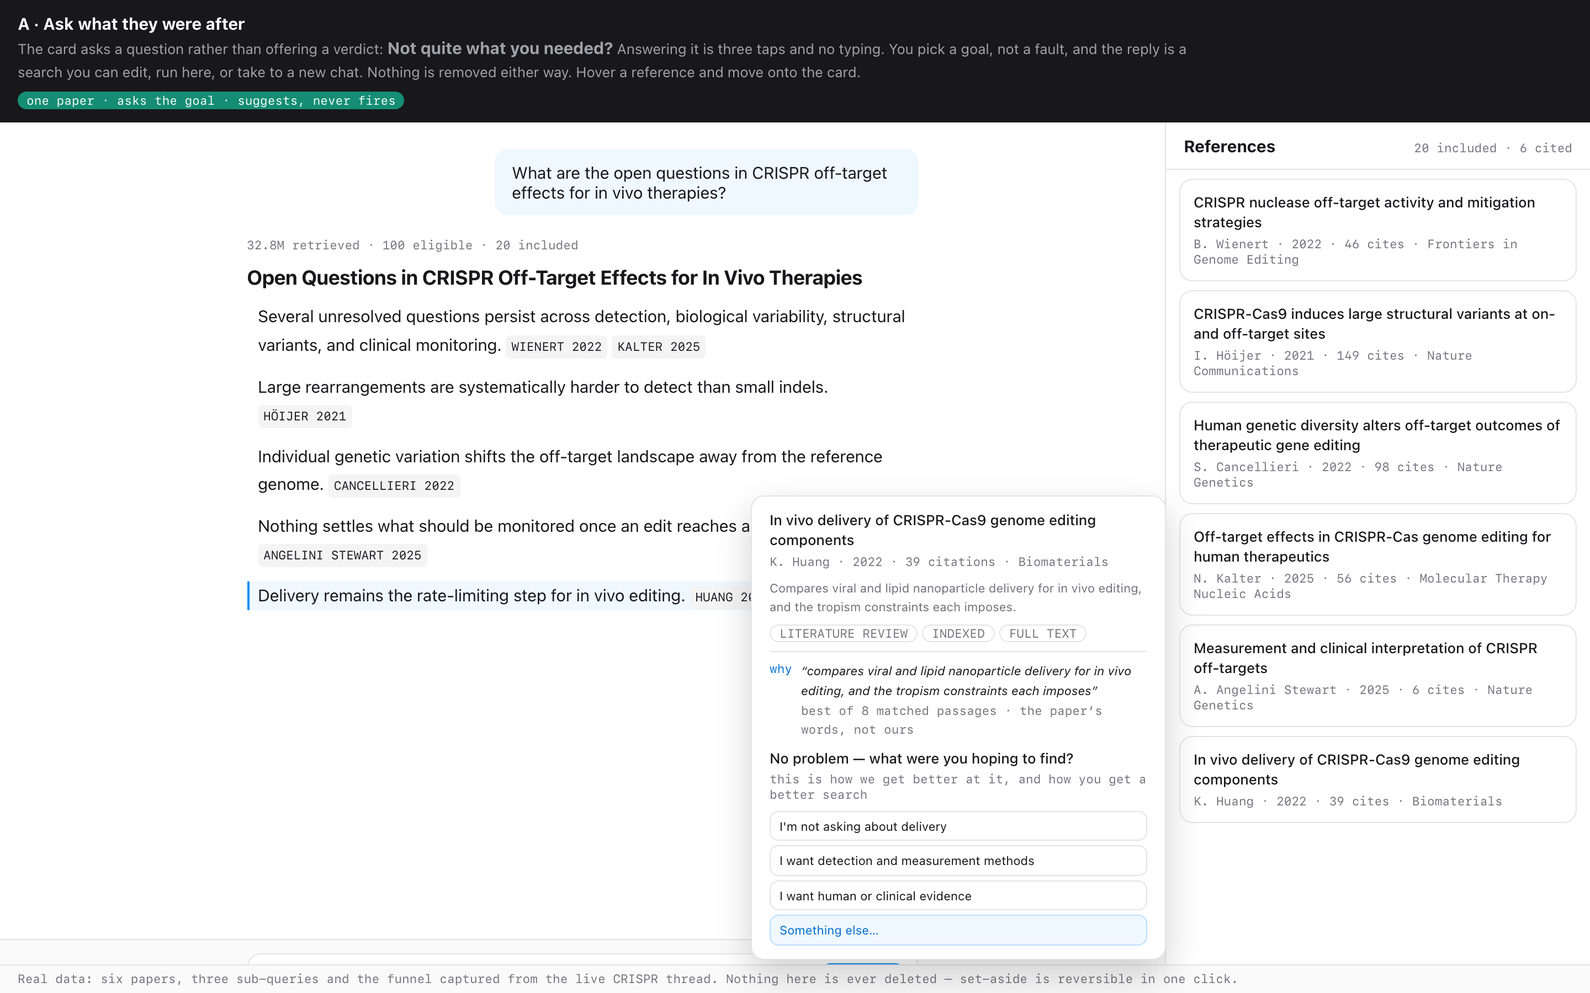
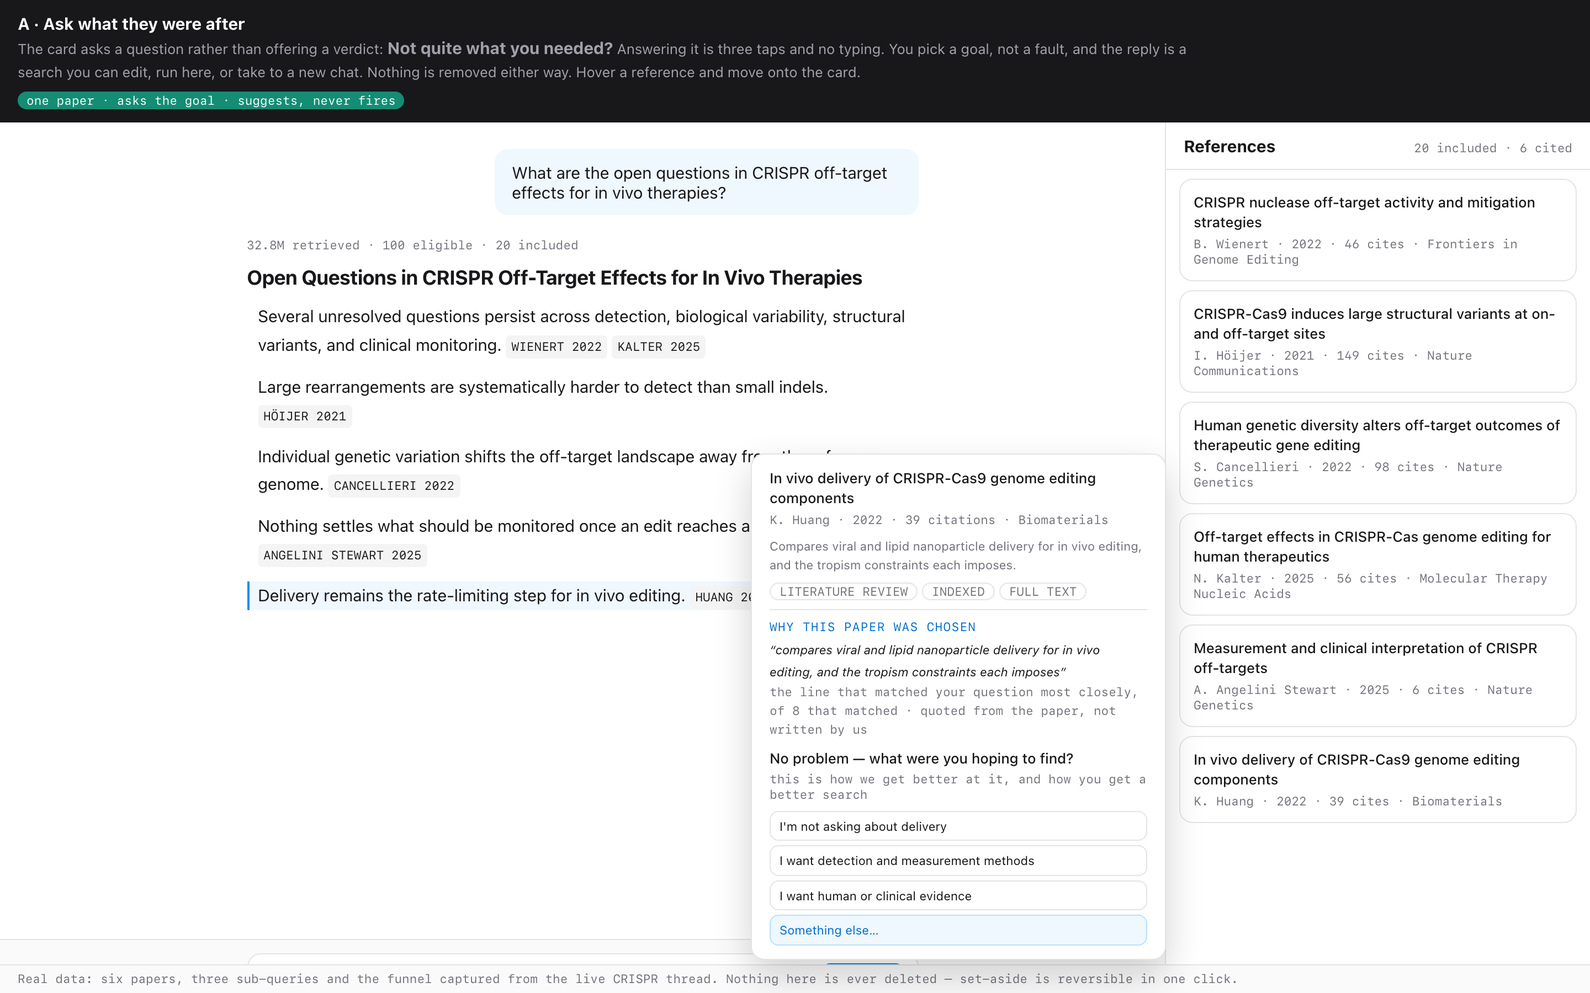
Round 20b · A chosen; "why" widened into a label that says what it is
"why" was too terse to carry the job — it did not say whose reason it was, or
that it was a reason at all. The hover card now leads the block with

  WHY THIS PAPER WAS CHOSEN
  "compares viral and lipid nanoparticle delivery for in vivo editing, and
   the tropism constraints each imposes"
  the line that matched your question most closely, of 8 that matched ·
  quoted from the paper, not written by us

The label takes its own line because it no longer fits beside the quote, and
the footnote now does two jobs it was not doing: it says what the quote *is*
(the closest-matching line, not a summary) and where it came from (the paper,
not us). Applied across all nine hover prototypes so the wording stays one
thing rather than drifting per file.

Direction A is marked as the decision on prototypes/redirect/index.html.

Claude-Session: https://claude.ai/code/session_01BjNnDxufGn9kQRDigfP8B5

Changed region(s): [[0.4688, 0.4356, 0.7188, 0.7467]]

diff --git a/prototypes/why/option-3-on-demand.html b/prototypes/why/option-3-on-demand.html
@@ -65,10 +65,13 @@ h1{font-size:var(--t-lg);letter-spacing:-.01em;margin-bottom:var(--s-sm)}
   padding:0 var(--s-xs);color:var(--muted)}
 
 /* ── the addition ─────────────────────────────────────────────── */
-.why{margin-top:var(--s-xs);border-top:1px solid var(--bd);padding-top:var(--s-xs);
-  display:flex;gap:var(--s-xs);align-items:baseline}
-.why .k{font-family:var(--mono);font-size:var(--t-2xs);color:var(--accent-emph);white-space:nowrap}
-.why .v{flex:1;font-size:var(--t-2xs);line-height:1.55}
+/* the label carries the job now: "why" alone did not say whose reason it was,
+   or that it is a reason at all. It gets its own line because it no longer fits
+   beside the quote. */
+.why{margin-top:var(--s-xs);border-top:1px solid var(--bd);padding-top:var(--s-xs)}
+.why .k{display:block;font-family:var(--mono);font-size:var(--t-2xs);color:var(--accent-emph);
+  letter-spacing:.06em;text-transform:uppercase;margin-bottom:3px}
+.why .v{font-size:var(--t-2xs);line-height:1.55}
 .why .v em{font-style:normal;color:var(--accent-emph)}
 .why .v q{font-style:italic}
 .why .tag{font-family:var(--mono);font-size:var(--t-2xs);color:var(--muted);display:block;margin-top:2px}
@@ -139,11 +142,11 @@ function lit(i){
 const cache={};
 function show(i,row){
   if(cache[i]){
-    card.innerHTML=base(i)+'<div class="why"><span class="k">why</span><span class="v">'+
+    card.innerHTML=base(i)+'<div class="why"><span class="k">Why this paper was chosen</span><span class="v">'+
       esc(cache[i])+'<span class="tag">from cache · asked once</span></span></div>';
     place(row); lit(i); return;
   }
-  card.innerHTML=base(i)+'<div class="why"><span class="k">why</span><span class="v">'+
+  card.innerHTML=base(i)+'<div class="why"><span class="k">Why this paper was chosen</span><span class="v">'+
     '<div class="shim"></div><div class="shim b"></div>'+
     '<span class="tag">asking about this paper…</span></span></div>';
   place(row); lit(i);
@@ -151,7 +154,7 @@ function show(i,row){
   show._t=setTimeout(()=>{
     if(!card.classList.contains('on')) return;
     cache[i]=P[i].why3;
-    card.innerHTML=base(i)+'<div class="why"><span class="k">why</span><span class="v">'+
+    card.innerHTML=base(i)+'<div class="why"><span class="k">Why this paper was chosen</span><span class="v">'+
       esc(P[i].why3)+'<span class="tag">written just now, for your question</span></span></div>';
     place(row);
   },620);

diff --git a/prototypes/redirect/redirect-1-ask-the-goal.html b/prototypes/redirect/redirect-1-ask-the-goal.html
@@ -95,9 +95,13 @@ h1{font-size:var(--t-lg);letter-spacing:-.01em;margin-bottom:var(--s-sm)}
 .card .chips{display:flex;gap:var(--s-2xs);margin-top:var(--s-xs);flex-wrap:wrap}
 .card .ch{font-family:var(--mono);font-size:var(--t-2xs);border:1px solid var(--bd);border-radius:625rem;
   padding:0 var(--s-xs);color:var(--muted)}
-.why{margin-top:var(--s-xs);border-top:1px solid var(--bd);padding-top:var(--s-xs);display:flex;gap:var(--s-xs)}
-.why .k{font-family:var(--mono);font-size:var(--t-2xs);color:var(--accent-emph);white-space:nowrap}
-.why .v{flex:1;font-size:var(--t-2xs);line-height:1.55}
+/* the label carries the job now: "why" alone did not say whose reason it was,
+   or that it is a reason at all. It gets its own line because it no longer fits
+   beside the quote. */
+.why{margin-top:var(--s-xs);border-top:1px solid var(--bd);padding-top:var(--s-xs)}
+.why .k{display:block;font-family:var(--mono);font-size:var(--t-2xs);color:var(--accent-emph);
+  letter-spacing:.06em;text-transform:uppercase;margin-bottom:3px}
+.why .v{font-size:var(--t-2xs);line-height:1.55}
 .why .v q{font-style:italic}
 .why .tag{font-family:var(--mono);font-size:var(--t-2xs);color:var(--muted);display:block;margin-top:2px}
 
@@ -200,8 +204,10 @@ function base(i){
     '<div class="ab">'+esc(p.ab)+'</div>'+
     '<div class="chips"><span class="ch">'+esc(p.type)+'</span><span class="ch">INDEXED</span>'+
     '<span class="ch">FULL TEXT</span></div>'+
-    '<div class="why"><span class="k">why</span><span class="v"><q>'+esc(p.passage)+'</q>'+
-    '<span class="tag">best of '+p.q+' matched passages · the paper’s words, not ours</span></span></div>';
+    '<div class="why"><span class="k">Why this paper was chosen</span><span class="v"><q>'+
+    esc(p.passage)+'</q>'+
+    '<span class="tag">the line that matched your question most closely, of '+p.q+
+    ' that matched · quoted from the paper, not written by us</span></span></div>';
 }
 function place(row){
   const r=row.getBoundingClientRect(), h=card.offsetHeight, w=card.offsetWidth;

diff --git a/prototypes/redirect/redirect-2-set-aside.html b/prototypes/redirect/redirect-2-set-aside.html
@@ -95,9 +95,13 @@ h1{font-size:var(--t-lg);letter-spacing:-.01em;margin-bottom:var(--s-sm)}
 .card .chips{display:flex;gap:var(--s-2xs);margin-top:var(--s-xs);flex-wrap:wrap}
 .card .ch{font-family:var(--mono);font-size:var(--t-2xs);border:1px solid var(--bd);border-radius:625rem;
   padding:0 var(--s-xs);color:var(--muted)}
-.why{margin-top:var(--s-xs);border-top:1px solid var(--bd);padding-top:var(--s-xs);display:flex;gap:var(--s-xs)}
-.why .k{font-family:var(--mono);font-size:var(--t-2xs);color:var(--accent-emph);white-space:nowrap}
-.why .v{flex:1;font-size:var(--t-2xs);line-height:1.55}
+/* the label carries the job now: "why" alone did not say whose reason it was,
+   or that it is a reason at all. It gets its own line because it no longer fits
+   beside the quote. */
+.why{margin-top:var(--s-xs);border-top:1px solid var(--bd);padding-top:var(--s-xs)}
+.why .k{display:block;font-family:var(--mono);font-size:var(--t-2xs);color:var(--accent-emph);
+  letter-spacing:.06em;text-transform:uppercase;margin-bottom:3px}
+.why .v{font-size:var(--t-2xs);line-height:1.55}
 .why .v q{font-style:italic}
 .why .tag{font-family:var(--mono);font-size:var(--t-2xs);color:var(--muted);display:block;margin-top:2px}
 
@@ -200,8 +204,10 @@ function base(i){
     '<div class="ab">'+esc(p.ab)+'</div>'+
     '<div class="chips"><span class="ch">'+esc(p.type)+'</span><span class="ch">INDEXED</span>'+
     '<span class="ch">FULL TEXT</span></div>'+
-    '<div class="why"><span class="k">why</span><span class="v"><q>'+esc(p.passage)+'</q>'+
-    '<span class="tag">best of '+p.q+' matched passages · the paper’s words, not ours</span></span></div>';
+    '<div class="why"><span class="k">Why this paper was chosen</span><span class="v"><q>'+
+    esc(p.passage)+'</q>'+
+    '<span class="tag">the line that matched your question most closely, of '+p.q+
+    ' that matched · quoted from the paper, not written by us</span></span></div>';
 }
 function place(row){
   const r=row.getBoundingClientRect(), h=card.offsetHeight, w=card.offsetWidth;

diff --git a/prototypes/redirect/redirect-3-on-the-way-out.html b/prototypes/redirect/redirect-3-on-the-way-out.html
@@ -95,9 +95,13 @@ h1{font-size:var(--t-lg);letter-spacing:-.01em;margin-bottom:var(--s-sm)}
 .card .chips{display:flex;gap:var(--s-2xs);margin-top:var(--s-xs);flex-wrap:wrap}
 .card .ch{font-family:var(--mono);font-size:var(--t-2xs);border:1px solid var(--bd);border-radius:625rem;
   padding:0 var(--s-xs);color:var(--muted)}
-.why{margin-top:var(--s-xs);border-top:1px solid var(--bd);padding-top:var(--s-xs);display:flex;gap:var(--s-xs)}
-.why .k{font-family:var(--mono);font-size:var(--t-2xs);color:var(--accent-emph);white-space:nowrap}
-.why .v{flex:1;font-size:var(--t-2xs);line-height:1.55}
+/* the label carries the job now: "why" alone did not say whose reason it was,
+   or that it is a reason at all. It gets its own line because it no longer fits
+   beside the quote. */
+.why{margin-top:var(--s-xs);border-top:1px solid var(--bd);padding-top:var(--s-xs)}
+.why .k{display:block;font-family:var(--mono);font-size:var(--t-2xs);color:var(--accent-emph);
+  letter-spacing:.06em;text-transform:uppercase;margin-bottom:3px}
+.why .v{font-size:var(--t-2xs);line-height:1.55}
 .why .v q{font-style:italic}
 .why .tag{font-family:var(--mono);font-size:var(--t-2xs);color:var(--muted);display:block;margin-top:2px}
 
@@ -200,8 +204,10 @@ function base(i){
     '<div class="ab">'+esc(p.ab)+'</div>'+
     '<div class="chips"><span class="ch">'+esc(p.type)+'</span><span class="ch">INDEXED</span>'+
     '<span class="ch">FULL TEXT</span></div>'+
-    '<div class="why"><span class="k">why</span><span class="v"><q>'+esc(p.passage)+'</q>'+
-    '<span class="tag">best of '+p.q+' matched passages · the paper’s words, not ours</span></span></div>';
+    '<div class="why"><span class="k">Why this paper was chosen</span><span class="v"><q>'+
+    esc(p.passage)+'</q>'+
+    '<span class="tag">the line that matched your question most closely, of '+p.q+
+    ' that matched · quoted from the paper, not written by us</span></span></div>';
 }
 function place(row){
   const r=row.getBoundingClientRect(), h=card.offsetHeight, w=card.offsetWidth;

diff --git a/prototypes/redirect/redirect-4-narrow-it.html b/prototypes/redirect/redirect-4-narrow-it.html
@@ -95,9 +95,13 @@ h1{font-size:var(--t-lg);letter-spacing:-.01em;margin-bottom:var(--s-sm)}
 .card .chips{display:flex;gap:var(--s-2xs);margin-top:var(--s-xs);flex-wrap:wrap}
 .card .ch{font-family:var(--mono);font-size:var(--t-2xs);border:1px solid var(--bd);border-radius:625rem;
   padding:0 var(--s-xs);color:var(--muted)}
-.why{margin-top:var(--s-xs);border-top:1px solid var(--bd);padding-top:var(--s-xs);display:flex;gap:var(--s-xs)}
-.why .k{font-family:var(--mono);font-size:var(--t-2xs);color:var(--accent-emph);white-space:nowrap}
-.why .v{flex:1;font-size:var(--t-2xs);line-height:1.55}
+/* the label carries the job now: "why" alone did not say whose reason it was,
+   or that it is a reason at all. It gets its own line because it no longer fits
+   beside the quote. */
+.why{margin-top:var(--s-xs);border-top:1px solid var(--bd);padding-top:var(--s-xs)}
+.why .k{display:block;font-family:var(--mono);font-size:var(--t-2xs);color:var(--accent-emph);
+  letter-spacing:.06em;text-transform:uppercase;margin-bottom:3px}
+.why .v{font-size:var(--t-2xs);line-height:1.55}
 .why .v q{font-style:italic}
 .why .tag{font-family:var(--mono);font-size:var(--t-2xs);color:var(--muted);display:block;margin-top:2px}
 
@@ -200,8 +204,10 @@ function base(i){
     '<div class="ab">'+esc(p.ab)+'</div>'+
     '<div class="chips"><span class="ch">'+esc(p.type)+'</span><span class="ch">INDEXED</span>'+
     '<span class="ch">FULL TEXT</span></div>'+
-    '<div class="why"><span class="k">why</span><span class="v"><q>'+esc(p.passage)+'</q>'+
-    '<span class="tag">best of '+p.q+' matched passages · the paper’s words, not ours</span></span></div>';
+    '<div class="why"><span class="k">Why this paper was chosen</span><span class="v"><q>'+
+    esc(p.passage)+'</q>'+
+    '<span class="tag">the line that matched your question most closely, of '+p.q+
+    ' that matched · quoted from the paper, not written by us</span></span></div>';
 }
 function place(row){
   const r=row.getBoundingClientRect(), h=card.offsetHeight, w=card.offsetWidth;

diff --git a/prototypes/redirect/index.html b/prototypes/redirect/index.html
@@ -34,6 +34,8 @@ h2.sec{font-size:var(--t-base);margin:var(--s-2xl) 0 var(--s-sm)}
 .opt{display:block;background:var(--bg);border:1px solid var(--bd);border-radius:.75rem;
   padding:var(--s-md) var(--s-lg);text-decoration:none;color:inherit;margin-bottom:var(--s-sm)}
 .opt:hover{border-color:var(--accent-bd);box-shadow:0 2px 14px #068ef114}
+.opt.pick{border:1.5px solid var(--accent);box-shadow:0 2px 14px #068ef114;margin-bottom:var(--s-xl)}
+.opt.pick h3{color:var(--accent-emph)}
 .opt .top{display:flex;gap:var(--s-sm);align-items:baseline;flex-wrap:wrap}
 .opt h3{font-size:var(--t-base);font-weight:600}
 .tag{font-family:var(--mono);font-size:var(--t-2xs);border-radius:625rem;padding:1px .45rem;white-space:nowrap;
@@ -81,8 +83,15 @@ footer b{color:var(--fg);font-weight:500}
 
   <h2 class="sec">Four directions</h2>
 
-  <a class="opt" href="redirect-1-ask-the-goal.html">
-    <div class="top"><h3>A · Ask what they were after</h3><span class="tag">one paper · three taps · no typing</span></div>
+  <p class="lede" style="margin-bottom:var(--s-lg)"><b>Changed after review:</b> the hover card’s
+  label was <span style="font-family:var(--mono)">why</span>, which is too terse to carry the job.
+  It is now <span style="font-family:var(--mono)">WHY THIS PAPER WAS CHOSEN</span> on its own line,
+  and the footnote under the quote says what the quote is and where it came from: <span
+  style="font-family:var(--mono)">the line that matched your question most closely, of 8 that
+  matched · quoted from the paper, not written by us</span>.</p>
+
+  <a class="opt pick" href="redirect-1-ask-the-goal.html">
+    <div class="top"><h3>Chosen · A · Ask what they were after</h3><span class="tag">one paper · three taps · no typing</span></div>
     <p>The card asks a question instead of offering a verdict: <b>Not quite what you needed? →</b>
     You pick a goal, not a fault, and get back a search you can edit, run here, or take to a new
     chat. The paper stays exactly where it is either way.</p>

diff --git a/prototypes/why/option-4-own-words.html b/prototypes/why/option-4-own-words.html
@@ -65,10 +65,13 @@ h1{font-size:var(--t-lg);letter-spacing:-.01em;margin-bottom:var(--s-sm)}
   padding:0 var(--s-xs);color:var(--muted)}
 
 /* ── the addition ─────────────────────────────────────────────── */
-.why{margin-top:var(--s-xs);border-top:1px solid var(--bd);padding-top:var(--s-xs);
-  display:flex;gap:var(--s-xs);align-items:baseline}
-.why .k{font-family:var(--mono);font-size:var(--t-2xs);color:var(--accent-emph);white-space:nowrap}
-.why .v{flex:1;font-size:var(--t-2xs);line-height:1.55}
+/* the label carries the job now: "why" alone did not say whose reason it was,
+   or that it is a reason at all. It gets its own line because it no longer fits
+   beside the quote. */
+.why{margin-top:var(--s-xs);border-top:1px solid var(--bd);padding-top:var(--s-xs)}
+.why .k{display:block;font-family:var(--mono);font-size:var(--t-2xs);color:var(--accent-emph);
+  letter-spacing:.06em;text-transform:uppercase;margin-bottom:3px}
+.why .v{font-size:var(--t-2xs);line-height:1.55}
 .why .v em{font-style:normal;color:var(--accent-emph)}
 .why .v q{font-style:italic}
 .why .tag{font-family:var(--mono);font-size:var(--t-2xs);color:var(--muted);display:block;margin-top:2px}
@@ -138,8 +141,9 @@ function lit(i){
 
 function show(i,row){
   card.innerHTML=base(i)+
-    '<div class="why"><span class="k">why</span><span class="v"><q>'+esc(P[i].passage)+'</q>'+
-    '<span class="tag">best of '+P[i].q+' matched passages · the paper’s words, not ours</span></span></div>';
+    '<div class="why"><span class="k">Why this paper was chosen</span><span class="v"><q>'+esc(P[i].passage)+'</q>'+
+    '<span class="tag">the line that matched your question most closely, of '+P[i].q+
+    ' that matched · quoted from the paper, not written by us</span></span></div>';
   place(row); lit(i);
 }
 

diff --git a/prototypes/why/option-1-assembled.html b/prototypes/why/option-1-assembled.html
@@ -65,10 +65,13 @@ h1{font-size:var(--t-lg);letter-spacing:-.01em;margin-bottom:var(--s-sm)}
   padding:0 var(--s-xs);color:var(--muted)}
 
 /* ── the addition ─────────────────────────────────────────────── */
-.why{margin-top:var(--s-xs);border-top:1px solid var(--bd);padding-top:var(--s-xs);
-  display:flex;gap:var(--s-xs);align-items:baseline}
-.why .k{font-family:var(--mono);font-size:var(--t-2xs);color:var(--accent-emph);white-space:nowrap}
-.why .v{flex:1;font-size:var(--t-2xs);line-height:1.55}
+/* the label carries the job now: "why" alone did not say whose reason it was,
+   or that it is a reason at all. It gets its own line because it no longer fits
+   beside the quote. */
+.why{margin-top:var(--s-xs);border-top:1px solid var(--bd);padding-top:var(--s-xs)}
+.why .k{display:block;font-family:var(--mono);font-size:var(--t-2xs);color:var(--accent-emph);
+  letter-spacing:.06em;text-transform:uppercase;margin-bottom:3px}
+.why .v{font-size:var(--t-2xs);line-height:1.55}
 .why .v em{font-style:normal;color:var(--accent-emph)}
 .why .v q{font-style:italic}
 .why .tag{font-family:var(--mono);font-size:var(--t-2xs);color:var(--muted);display:block;margin-top:2px}
@@ -139,7 +142,7 @@ function lit(i){
 function show(i,row){
   const p=P[i], used=A.some(a=>a.srcs.includes(i));
   card.innerHTML=base(i)+
-    '<div class="why"><span class="k">why</span><span class="v">'+
+    '<div class="why"><span class="k">Why this paper was chosen</span><span class="v">'+
     (used?'<em>Cited in the answer</em>':'<em>Read, not cited</em>')+' · '+p.q+' passages matched'+
     '<span class="tag">from search '+(p.sq+1)+' of 3: “'+esc(SQ[p.sq])+'”</span></span></div>';
   place(row); lit(i);

diff --git a/prototypes/why/option-5-points.html b/prototypes/why/option-5-points.html
@@ -65,10 +65,13 @@ h1{font-size:var(--t-lg);letter-spacing:-.01em;margin-bottom:var(--s-sm)}
   padding:0 var(--s-xs);color:var(--muted)}
 
 /* ── the addition ─────────────────────────────────────────────── */
-.why{margin-top:var(--s-xs);border-top:1px solid var(--bd);padding-top:var(--s-xs);
-  display:flex;gap:var(--s-xs);align-items:baseline}
-.why .k{font-family:var(--mono);font-size:var(--t-2xs);color:var(--accent-emph);white-space:nowrap}
-.why .v{flex:1;font-size:var(--t-2xs);line-height:1.55}
+/* the label carries the job now: "why" alone did not say whose reason it was,
+   or that it is a reason at all. It gets its own line because it no longer fits
+   beside the quote. */
+.why{margin-top:var(--s-xs);border-top:1px solid var(--bd);padding-top:var(--s-xs)}
+.why .k{display:block;font-family:var(--mono);font-size:var(--t-2xs);color:var(--accent-emph);
+  letter-spacing:.06em;text-transform:uppercase;margin-bottom:3px}
+.why .v{font-size:var(--t-2xs);line-height:1.55}
 .why .v em{font-style:normal;color:var(--accent-emph)}
 .why .v q{font-style:italic}
 .why .tag{font-family:var(--mono);font-size:var(--t-2xs);color:var(--muted);display:block;margin-top:2px}
@@ -139,7 +142,7 @@ function lit(i){
 function show(i,row){
   const n=A.filter(a=>a.srcs.includes(i)).length;
   card.innerHTML=base(i)+
-    '<div class="why"><span class="k">why</span><span class="v">'+
+    '<div class="why"><span class="k">Why this paper was chosen</span><span class="v">'+
     (n?'← Highlighted: the '+(n===1?'sentence':n+' sentences')+' this paper holds up.'
       :'← Nothing. It was read for this question and never cited.')+'</span></div>';
   place(row); lit(i);

diff --git a/prototypes/why/option-4-flag.html b/prototypes/why/option-4-flag.html
@@ -69,9 +69,10 @@ h1{font-size:var(--t-lg);letter-spacing:-.01em;margin-bottom:var(--s-sm)}
   padding:0 var(--s-xs);color:var(--muted)}
 
 /* ── the why line: option 4, the paper's own matched passage ──── */
-.why{margin-top:var(--s-xs);border-top:1px solid var(--bd);padding-top:var(--s-xs);display:flex;gap:var(--s-xs)}
-.why .k{font-family:var(--mono);font-size:var(--t-2xs);color:var(--accent-emph);white-space:nowrap}
-.why .v{flex:1;font-size:var(--t-2xs);line-height:1.55}
+.why{margin-top:var(--s-xs);border-top:1px solid var(--bd);padding-top:var(--s-xs)}
+.why .k{display:block;font-family:var(--mono);font-size:var(--t-2xs);color:var(--accent-emph);
+  letter-spacing:.06em;text-transform:uppercase;margin-bottom:3px}
+.why .v{font-size:var(--t-2xs);line-height:1.55}
 .why .v q{font-style:italic}
 .why .tag{font-family:var(--mono);font-size:var(--t-2xs);color:var(--muted);display:block;margin-top:2px}
 
@@ -238,8 +239,9 @@ function base(i){
 function show(i,row){
   openOn=i; card.classList.add('on');
   card.innerHTML=base(i)+
-    '<div class="why"><span class="k">why</span><span class="v"><q>'+esc(P[i].passage)+'</q>'+
-    '<span class="tag">best of '+P[i].q+' matched passages · the paper’s words, not ours</span></span></div>'+
+    '<div class="why"><span class="k">Why this paper was chosen</span><span class="v"><q>'+esc(P[i].passage)+'</q>'+
+    '<span class="tag">the line that matched your question most closely, of '+P[i].q+
+    ' that matched · quoted from the paper, not written by us</span></span></div>'+
     (flags[i]?doneBlock(i):'<div class="act"><button class="flag">⚑ not relevant</button></div>');
   wire(i); place(row); lit(i);
 }

diff --git a/prototypes/why/option-2-written.html b/prototypes/why/option-2-written.html
@@ -65,10 +65,13 @@ h1{font-size:var(--t-lg);letter-spacing:-.01em;margin-bottom:var(--s-sm)}
   padding:0 var(--s-xs);color:var(--muted)}
 
 /* ── the addition ─────────────────────────────────────────────── */
-.why{margin-top:var(--s-xs);border-top:1px solid var(--bd);padding-top:var(--s-xs);
-  display:flex;gap:var(--s-xs);align-items:baseline}
-.why .k{font-family:var(--mono);font-size:var(--t-2xs);color:var(--accent-emph);white-space:nowrap}
-.why .v{flex:1;font-size:var(--t-2xs);line-height:1.55}
+/* the label carries the job now: "why" alone did not say whose reason it was,
+   or that it is a reason at all. It gets its own line because it no longer fits
+   beside the quote. */
+.why{margin-top:var(--s-xs);border-top:1px solid var(--bd);padding-top:var(--s-xs)}
+.why .k{display:block;font-family:var(--mono);font-size:var(--t-2xs);color:var(--accent-emph);
+  letter-spacing:.06em;text-transform:uppercase;margin-bottom:3px}
+.why .v{font-size:var(--t-2xs);line-height:1.55}
 .why .v em{font-style:normal;color:var(--accent-emph)}
 .why .v q{font-style:italic}
 .why .tag{font-family:var(--mono);font-size:var(--t-2xs);color:var(--muted);display:block;margin-top:2px}
@@ -138,7 +141,7 @@ function lit(i){
 
 function show(i,row){
   card.innerHTML=base(i)+
-    '<div class="why"><span class="k">why</span><span class="v">'+esc(P[i].why2)+'</span></div>';
+    '<div class="why"><span class="k">Why this paper was chosen</span><span class="v">'+esc(P[i].why2)+'</span></div>';
   place(row); lit(i);
 }
 

diff --git a/prototypes/index.html b/prototypes/index.html
@@ -89,9 +89,9 @@ footer{margin-top:var(--s-3xl);border-top:1px solid var(--bd);padding-top:var(--
     anything, make the click pay the user now, scale the response to the evidence, suggest but never
     fire, offer both scopes, and remember that a user who searches again and keeps nothing has
     already told you.</p>
-    <p class="new">answers the one-bad-many-good balance directly: one set-aside is tidying, three is
-    a pattern and only then does anything suggest starting over · nothing strikes through, nothing is
-    removed, everything is one click back</p>
+    <p class="new">chosen: <b>A · ask what they were after</b> · the card’s label is now
+    <b>WHY THIS PAPER WAS CHOSEN</b> rather than “why”, with the quote’s provenance spelled out
+    under it · nothing strikes through, nothing is removed, and no suggested search fires on its own</p>
     <span class="go">Open the comparison →</span>
   </a>
 
